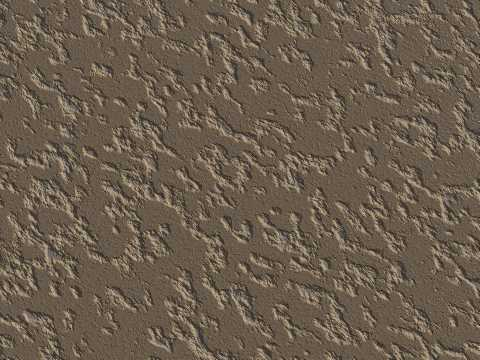
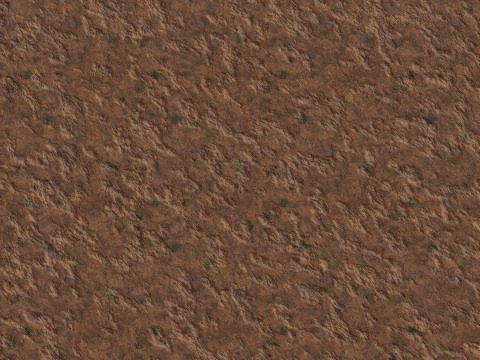
new textures; added some constants; small changes concerning the base

diff --git a/core/entities.py b/core/entities.py
@@ -7,9 +7,18 @@ import math
 import tools
 import pygame
 
+''' Game Constants '''
+
+MAX_SPEED = 3
+MAX_TURN_SPEED = 0.01 * math.pi
+AMMO = 10
+HEALTH = 100
+
+'''                '''
+
 class Entity():
     
-    def __init__(self, x, y, img):
+    def __init__(self, x, y, img, priority):
         self.location = [x, y]
         self.angle = 0
         self.velocity = 0
@@ -19,9 +28,10 @@ class Entity():
         self.img = img
         self.bufimg = self.img
         self.bufrect = self.bufimg.get_rect()
-        self.max_speed = 3
-        self.max_turn_speed = 0.01 * math.pi
+        self.max_speed = MAX_SPEED
+        self.max_turn_speed = MAX_TURN_SPEED
         self.map_rect = pygame.Rect(0, 0, 800, 600)
+        self.priority = priority
     
     def accelerate(self, a):
         self.acceleration = a
@@ -56,10 +66,10 @@ class Entity():
 class Tank(Entity):
     
     def __init__(self, x, y, img, top_img):
-        Entity.__init__(self, x, y, img)
+        Entity.__init__(self, x, y, img, 10)
         self.aim_direction = 0
-        self.ammo = 10
-        self.health = 100
+        self.ammo = AMMO
+        self.health = HEALTH
         self.top_img = top_img
         self.top_bufimg = top_img
         self.top_bufrect = top_img.get_rect()
@@ -72,7 +82,7 @@ class Tank(Entity):
     
     def to_base(self, b):
         if b.owner == self:
-            self.ammo = 10
+            self.ammo = AMMO
     
     def move(self):
         self.old_location = self.location[:]
@@ -93,7 +103,7 @@ class Tank(Entity):
         elif self.aim_velocity < 0:
             self.aim_velocity = min(self.aim_velocity + 0.005 * math.pi, 0)
         if self.aim_velocity != 0:
-            self.rotate_foo(self.aim_velocity)
+            self.rotate_gun_by(self.aim_velocity)
         
         if self.acceleration != 0:
             mult = 3
@@ -115,12 +125,12 @@ class Tank(Entity):
     def acc_rotation(self, acc):
         self.aim_acceleration = acc
     
-    def rotate_to(self, angle):
+    def rotate_gun_to(self, angle):
         self.aim_direction = angle
         self.top_bufimg, self.top_bufrect = tools.rot_center(self.top_img, self.top_img.get_rect(), self.aim_direction * 180 / math.pi)
     
-    def rotate_foo(self, angle):
-        self.rotate_to(self.aim_direction + angle)
+    def rotate_gun_by(self, angle):
+        self.rotate_gun_to(self.aim_direction + angle)
         
     def render(self, display):
         Entity.render(self, display)
@@ -131,15 +141,14 @@ class Tank(Entity):
         if missile.owner != self:
             self.health -= missile.damage
             missile.destroy()
-            print "I was damaged!!! %d" % self.health
     
     def alive(self):
         return self.health > 0
 
     def shoot(self):
         if self.ammo > 0:
-            x, y = (self.location[0] - math.sin(self.aim_direction) * (1+self.velocity) * 10),\
-                    (self.location[1] - math.cos(self.aim_direction) * (1+self.velocity) * 10)
+            x, y = (self.location[0] - math.sin(self.aim_direction) * 40),\
+                    (self.location[1] - math.cos(self.aim_direction) * 40)
             missile = Missile(x, y, pygame.image.load("missile.gif"), self)
             self.ammo -= 1
             return missile
@@ -148,7 +157,7 @@ class Tank(Entity):
 class Missile(Entity):
     
     def __init__(self, x, y, img, owner):
-        Entity.__init__(self, x, y, img)
+        Entity.__init__(self, x, y, img, 5)
         self.velocity = 10
         self.owner = owner
         self.set_angle(owner.aim_direction)
@@ -169,9 +178,18 @@ class Missile(Entity):
 class Base(Entity):
     
     def __init__(self, x, y, img, owner):
-        Entity.__init__(self, x, y, img)
+        Entity.__init__(self, x, y, img, 0)
         self.owner = owner
+        self.preparation_time = 0
+    
+    def get_radius(self):
+        return 10
     
     def move(self):
+        if self.owner.collide_entities(self) and self.preparation_time == 0:
+            while (self.owner.ammo < 10):
+                self.preparation_time += 50
+                self.owner.ammo += 1
+        self.preparation_time = max(self.preparation_time - 1, 0)
         return True
         

diff --git a/core/test.py b/core/test.py
@@ -5,7 +5,7 @@ import pygame
 import sys
 
 def check_collisions(world, entity):
-    for e1 in world:
+    for p, e1 in world:
         if e1 != entity and e1.collide_entities(entity):
             if isinstance(e1, Tank):
                 if isinstance(entity, Missile):
@@ -13,14 +13,14 @@ def check_collisions(world, entity):
                 if isinstance(entity, Tank):
                     entity.step_back()
                     e1.step_back()
-                if isinstance(entity, Base):
-                    e1.to_base(entity)
-                
+
+WIDTH = 800
+HEIGHT = 600
 
 if __name__ == '__main__':
     pygame.init()
     
-    size = width, height = 800, 600
+    size = width, height = WIDTH, HEIGHT
     white = 0xff, 0xff, 0xff
     
     screen = pygame.display.set_mode(size)
@@ -32,13 +32,14 @@ if __name__ == '__main__':
     base2 = Base(700, 100, pygame.image.load("base.gif"), tank2)
     
     img = pygame.image.load('dirt.jpg')
-    img = pygame.transform.scale(img, (800, 600))
+    img = pygame.transform.scale(img, (WIDTH, HEIGHT))
     
     world = []
     world.append(base1)
     world.append(base2)
     world.append(tank1)
     world.append(tank2)
+    world = [[e.priority, e] for e in world]
     
     while 1:
         for event in pygame.event.get():
@@ -60,7 +61,7 @@ if __name__ == '__main__':
                 elif event.key == pygame.K_b:
                     missile = tank1.shoot()
                     if missile != None:
-                        world.append(missile)
+                        world.append([missile.priority, missile])
                 elif event.key == pygame.K_a:
                     tank2.rotate(+math.pi/6000)
                 elif event.key == pygame.K_d:
@@ -76,7 +77,7 @@ if __name__ == '__main__':
                 elif event.key == pygame.K_j:
                     missile = tank2.shoot()
                     if missile != None:
-                        world.append(missile)
+                        world.append([missile.priority, missile])
             elif event.type == pygame.KEYUP:
                 if event.key == pygame.K_UP or event.key == pygame.K_DOWN:
                     tank1.accelerate(0)
@@ -93,31 +94,32 @@ if __name__ == '__main__':
                     
         screen.fill(white)
         screen.blit(img, img.get_rect())
-        for entity in world:
+        world.sort()
+        for [p, entity] in world:
             if not entity.move():
-                world.remove(entity)
+                world.remove([entity.priority, entity])
             else:
                 check_collisions(world, entity)
                 entity.render(screen)
         
-            pygame.draw.rect(screen, pygame.Color(0x44, 0x44, 0x44), (0, 0, 500, 60))
+        pygame.draw.rect(screen, pygame.Color(0x44, 0x44, 0x44), (0, 0, 500, 60))
         pygame.draw.rect(screen, pygame.Color(0x44, 0x44, 0x44), (300, 540, 500, 60))
         
         missile = pygame.image.load("missile.gif")
         
         missile_rect = missile.get_rect()
         for i in range(tank1.ammo):
-            screen.blit(missile, [10+missile_rect[2]*i*2, 10])
+            screen.blit(missile, [480-missile_rect[2]*i*2, 20])
         
         missile_rect = missile.get_rect()
         for i in range(tank2.ammo):
-            screen.blit(missile, [310+missile_rect[2]*i*2, 550])
+            screen.blit(missile, [WIDTH - missile_rect[2]*i*2, HEIGHT-40])
         
-        pygame.draw.rect(screen, pygame.Color(0xff, 0, 0), (10, 25, 200, 20), 2)
-        pygame.draw.rect(screen, pygame.Color(0xff, 0, 0), (10, 25, tank1.health*2, 20))
+        pygame.draw.rect(screen, pygame.Color(128, 0, 0), (10, 25, 200, 20), 2)
+        pygame.draw.rect(screen, pygame.Color(128, 0, 0), (10, 25, tank1.health*2, 20))
         
-        pygame.draw.rect(screen, pygame.Color(0xff, 0, 0), (310, 565, 200, 20), 2)
-        pygame.draw.rect(screen, pygame.Color(0xff, 0, 0), (310, 565, tank2.health*2, 20))
+        pygame.draw.rect(screen, pygame.Color(128, 0, 0), (310, 565, 200, 20), 2)
+        pygame.draw.rect(screen, pygame.Color(128, 0, 0), (310, 565, tank2.health*2, 20))
     
         pygame.display.flip()
         pygame.time.wait(10)
